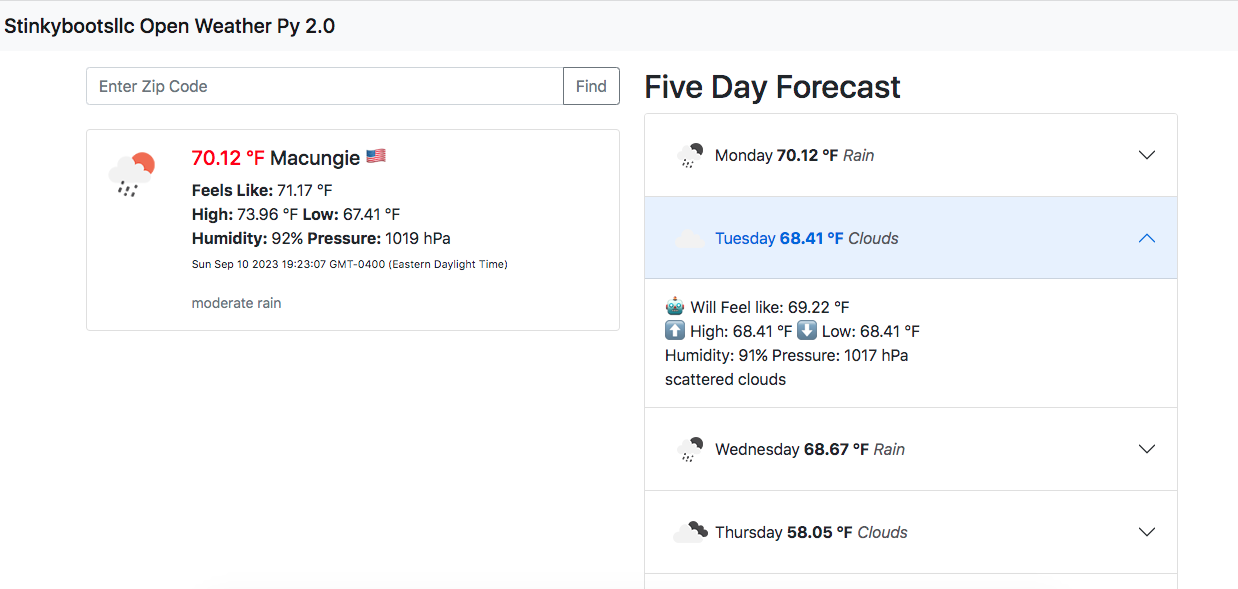
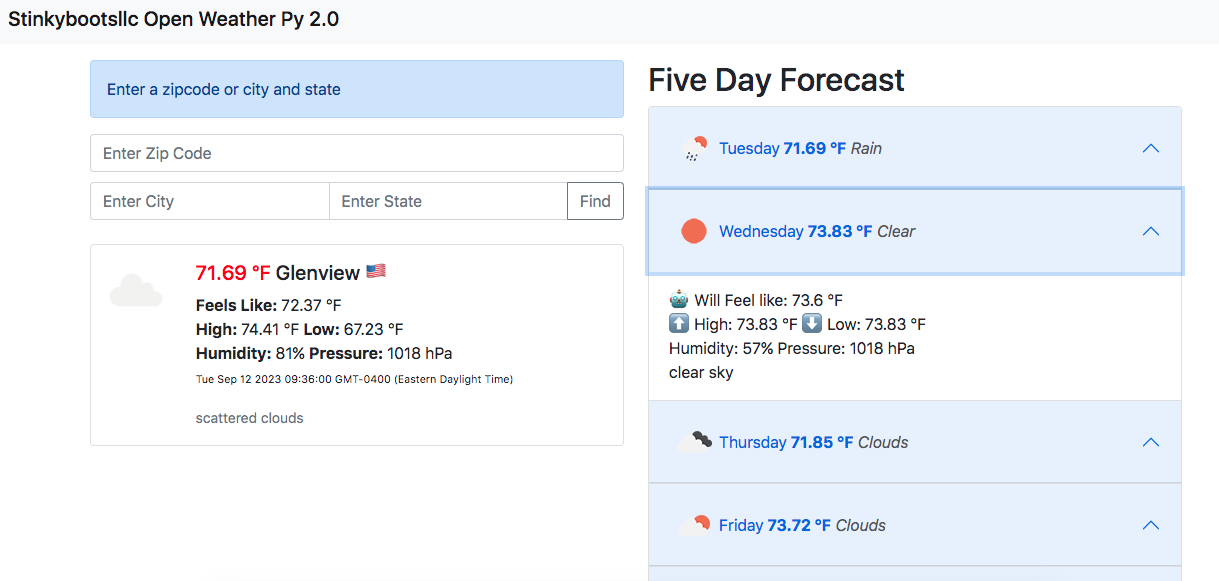
updated

diff --git a/README.md b/README.md
@@ -6,7 +6,7 @@ Created for educational purposes only. I wanted to create a web app using the py
 
 ## Features
 
-1. Search by U.S. zipcode.
+1. Search by U.S. zipcode. or U.S. city name and state
 2. Displays current weather
 3. Displays five day weather forcast
 
@@ -22,13 +22,13 @@ Created for educational purposes only. I wanted to create a web app using the py
 
 ## Lessons Learned
 
-This specific app would have been easier to create with just a javascript framework such as Node, Vue, etc...  It simply calls a rest API and renders the HTML.  So why did I use python? To learn.  The biggest problem, is that the app only searches by US zipcode. Users should be able to search weather by zipcode AND city name.  City names are much easier to memorize. State is not included in the JSON response. I have a free account, so it is limited. Seems like _"open weather"_ is click bait.
+This specific app would have been easier to create with just a javascript framework such as Node, Vue, etc...  It simply calls a rest API and renders the HTML.  So why did I use python? To learn. State is not included in the JSON response. I have a free account, so it is limited. Seems like _"open weather"_ is click bait.
 
 ## Version History
 
 * 2.0
     * Python Version
-    * User input (zipcode only)
+    * Search - User input 
     * Python Version
     * Current weather
     * Five day forecast
